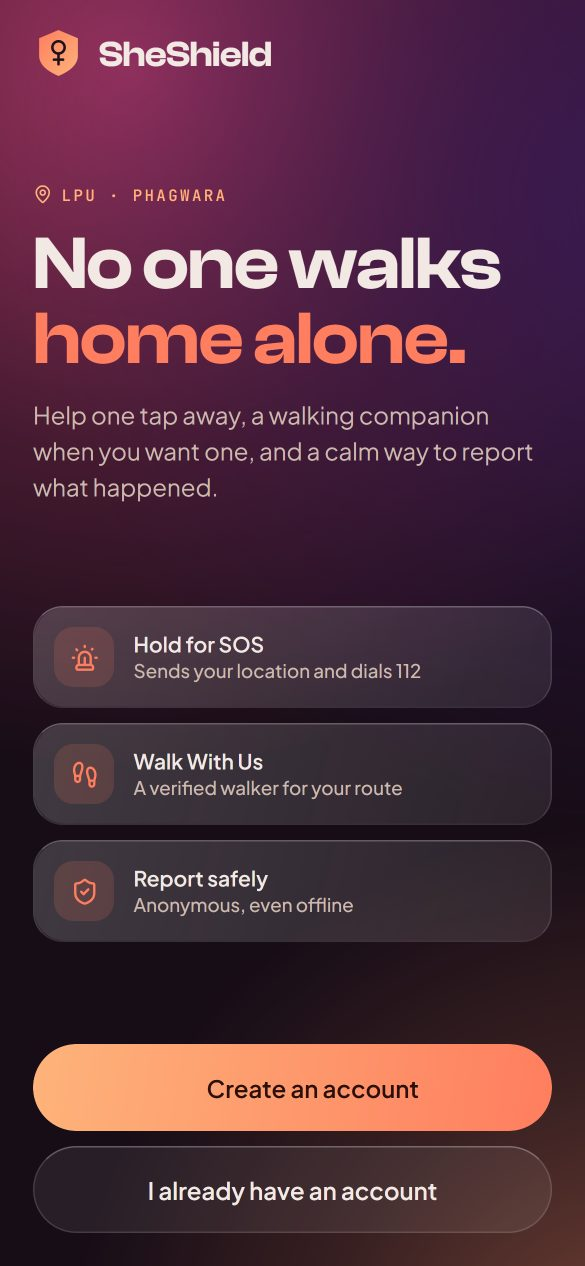
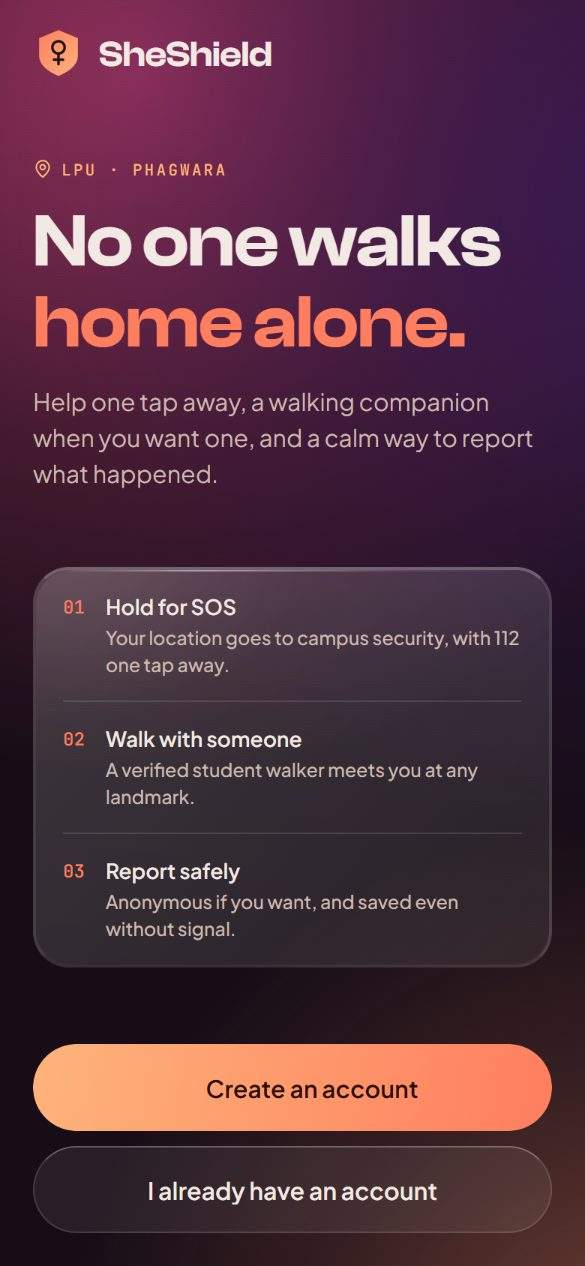
chore: final clean-up — licence at the root, current docs and screenshots
- Move the MIT licence to the repository root so it covers the whole
  project, as the README states, and link it.
- Remove Expo template leftovers from mobile/: the unused iOS icon folder,
  editor settings and AGENTS.md. Its advice now lives in the app README's
  development notes.
- README: live website and APK links, an Android build badge, the Mobile
  App section in the navigation, an updated roadmap, and Security rows for
  mobile token sign-in, environment-based config and hidden database errors.
- App README and install guide: current screenshots, the new features
  (report details, profile photo, volunteering), structure and endpoints.

diff --git a/mobile/README.md b/mobile/README.md
@@ -10,15 +10,15 @@ React Native · Expo SDK 58 · TypeScript · Expo Router · TanStack Query · Zu
 </div>
 
 <p align="center">
-  <img src="docs/screenshots/welcome.jpg" width="200" alt="Welcome screen">
-  <img src="docs/screenshots/home.jpg" width="200" alt="Home dashboard">
+  <img src="docs/screenshots/home.jpg" width="200" alt="Home">
   <img src="docs/screenshots/sos.jpg" width="200" alt="Hold-to-send SOS">
   <img src="docs/screenshots/sos-sent.jpg" width="200" alt="SOS sent with location">
+  <img src="docs/screenshots/map.jpg" width="200" alt="Campus safety map">
 </p>
 <p align="center">
-  <img src="docs/screenshots/map.jpg" width="200" alt="Campus safety map">
   <img src="docs/screenshots/walks.jpg" width="200" alt="Walk With Us">
   <img src="docs/screenshots/report.jpg" width="200" alt="Report an incident">
+  <img src="docs/screenshots/my-reports.jpg" width="200" alt="Report details">
   <img src="docs/screenshots/profile.jpg" width="200" alt="Profile and themes">
 </p>
 
@@ -27,12 +27,14 @@ React Native · Expo SDK 58 · TypeScript · Expo Router · TanStack Query · Zu
 | Feature | How it works |
 |---|---|
 | **Hold-to-send SOS** | Always one tap away in the middle of the tab bar. Hold for 1.6 s while a ring fills with rising haptic ticks, so a pocket tap never sends an alert. Uses the last known location instantly, then a fresh GPS fix within 8 s, sends it to the backend, and offers Call 112, call or text your emergency contact, or share a Google Maps link. If sending fails, every fallback still works. |
-| **Walk With Us** | Choose pickup, destination and time from campus landmarks. The server assigns a verified walker who is on duty. Walks update optimistically: cancel shows at once and rolls back if the server refuses. |
-| **Incident reports** | Type, severity, time, landmark or GPS location, up to 3 photos from the camera or gallery, and a fully anonymous option. **Works offline:** with no signal the report is saved on the phone and sent automatically when the connection returns. |
+| **Walk With Us** | A route card (From, To, swap) and one list of campus landmarks. The server assigns a verified walker who is on duty. Cancelling updates optimistically and rolls back if the server refuses. |
+| **Volunteer as a walker** | Role, gender, phone, ID, hours and areas, the same as the website. New walkers wait for admin verification; Walks shows your status. |
+| **Incident reports** | Type, severity, time, landmark or GPS location, up to 3 photos from the camera or gallery, and a fully anonymous option. **Works offline:** with no signal the report is saved on the phone and sent automatically when the connection returns. Tap a report to read it in full and mark your own pending ones resolved. |
 | **Campus map** | Esri satellite or street tiles with the official OpenStreetMap campus outline, landmarks and safe spaces. Runs Leaflet in a WebView, so the installed app needs no map API key. Tap a landmark to walk from it or report there. |
-| **Dashboard** | Live IST clock with next sunrise or sunset at LPU, your report numbers, active walk, latest reports and one-tap helplines. Pull to refresh everywhere. |
+| **Home** | Today's date and campus time, one focal panel (your walk, or a prompt to request one), quick actions, a summary strip, recent reports and helplines with Call buttons. Pull to refresh everywhere. |
+| **Frosted glass** | Each screen keeps its background in its own blur source, and every panel blurs it on Android 12+ (iOS blurs natively). The floating tab bar blurs the screen beneath it. |
 | **Never an empty screen** | Render's free server sleeps when idle and takes up to a minute to wake. Every screen loads the last data saved on the phone (or realistic sample data on a first run) if the server doesn't answer within 10 s, shows a "waking up" banner, and retries every 15 s until live data arrives. |
-| **Themes** | The website's three tweakcn themes (Sunset Horizon, Cosmic Night, Solar Dusk), saved between launches. |
+| **Profile** | Change your photo, set an emergency contact for SOS, and pick one of the website's three themes (Sunset Horizon, Cosmic Night, Solar Dusk). |
 | **Secure sign-in** | Email and password exchange for a random token stored in the Android Keystore / iOS Keychain (`expo-secure-store`). The server keeps only a SHA-256 hash and revokes it on sign-out. |
 
 ## Tech stack
@@ -42,7 +44,7 @@ React Native · Expo SDK 58 · TypeScript · Expo Router · TanStack Query · Zu
 - **TanStack Query**: server state, caching, pull-to-refresh, optimistic updates
 - **Zustand**: auth, theme, toast and offline-queue stores (theme persisted with AsyncStorage)
 - **Reanimated 4**: UI-thread animations (aurora, SOS ring, tab bar, press feedback, list entry)
-- **react-native-svg** (gradients, SOS progress ring), **expo-linear-gradient**, **expo-blur** (iOS tab bar)
+- **expo-blur** (real blur via `BlurTargetView` on Android 12+), **react-native-svg** (gradients, SOS ring), **expo-linear-gradient**, **masked-view**
 - **expo-location, expo-image-picker, expo-haptics, expo-secure-store, expo-clipboard**, NetInfo, WebView
 - **Lucide** icons, **Clash Display** + **Plus Jakarta Sans** + **JetBrains Mono** fonts
 - Backend: the SheShield PHP + MySQL API in the [repository root](../), deployed on Render and Vercel
@@ -58,13 +60,15 @@ src/
     (tabs)/index.tsx map.tsx walks.tsx profile.tsx
     sos.tsx                  full-screen emergency flow
     report.tsx reports.tsx   new report (modal) and history
-  components/                Glass, Button, Field, Aurora, HoldToSend, CampusMap, GlassTabBar…
+    volunteer.tsx            walker registration (modal)
+  components/                Glass, Scene, Button, Field, HoldToSend, CampusMap, GlassTabBar…
   lib/
     api.ts                   fetch wrapper: base URL, bearer token, timeouts, honest errors
     auth.ts                  token in SecureStore, Zustand store
     queries.ts               TanStack Query hooks and mutations
+    fallback.ts sample.ts    saved or sample data while the server wakes
     offline.ts               offline report queue + NetInfo auto-retry
-    theme.ts                 three themes, fonts, glass tokens
+    blur.ts theme.ts         blur sources, three themes, fonts, glass tokens
     campus.ts format.ts lpu-boundary.ts
 ```
 
@@ -79,8 +83,15 @@ Scan the QR code with a development build of the app, or press `w` for the web p
 
 ```bash
 npx tsc --noEmit   # type check
-npx expo lint      # lint (React Compiler rules included)
+npm run lint       # lint with the app's own config (React Compiler rules included)
 ```
+
+### Development notes
+
+- **Adding packages:** use `npx expo install <package>` rather than `npm install`. It picks the version that matches this Expo SDK.
+- **Check the versioned docs:** Expo changes APIs between SDKs, so check the docs for SDK 58 (https://docs.expo.dev/versions/v58.0.0/) before using an Expo API.
+- **Native folders:** `android/` and `ios/` are generated by `expo prebuild` and not committed. Native settings live in `app.json` and config plugins.
+- **Libraries with native code:** these need a new build, not just a reload.
 
 ## Install on your phone
 
@@ -88,7 +99,7 @@ Download the latest APK from **[Releases](https://github.com/Ankit-Basu/SheShiel
 
 ## Build an APK
 
-**GitHub Actions (no account needed):** [`.github/workflows/android-apk.yml`](../.github/workflows/android-apk.yml) in the repository root runs `expo prebuild`, builds a release APK with Gradle on GitHub's servers, and publishes it as a release. Start it from **Actions → Android APK → Run workflow**, or push a `v*` tag.
+**GitHub Actions (no account needed):** [`.github/workflows/android-apk.yml`](../.github/workflows/android-apk.yml) in the repository root runs `expo prebuild`, builds a release APK with Gradle on GitHub's servers, and publishes it as a release. It runs on its own when `mobile/` changes on `master`; start it by hand from **Actions → Android APK → Run workflow**, or push a `mobile-v*` tag.
 
 **EAS (Expo's build service):** for Play Store builds with managed signing.
 
@@ -111,7 +122,8 @@ npx eas-cli@latest build -p android --profile preview
 | `GET api/walks/mine.php` · `POST create_request.php`, `cancel_request.php` | Walks |
 | `POST api/emergency/alert.php` | SOS with location |
 | `GET api/safespaces/list.php` · `POST api/user/update_profile.php` | Map safe spaces · emergency contact |
+| `POST api/incidents/resolve.php` · `api/user/upload_photo.php` · `api/walks/register_walker.php` | Resolve a report · profile photo · volunteer as a walker |
 
 ## Credits
 
-Campus outline © OpenStreetMap contributors (ODbL). Imagery © Esri, Maxar. Clash Display from Fontshare (see `assets/fonts/LICENSE-FontShare.txt`).
+Campus outline © OpenStreetMap contributors (ODbL). Imagery © Esri, Maxar. Clash Display from Fontshare (see `assets/fonts/LICENSE-FontShare.txt`). Code under the MIT licence in the repository root.

diff --git a/README.md b/README.md
@@ -5,8 +5,12 @@
   <h3>No one walks home alone.</h3>
   <p><em>A campus safety platform for women at Lovely Professional University: one-tap SOS, walking companions, confidential reporting and a live satellite safety map.</em></p>
   <a href="https://github.com/Ankit-Basu/SheShield/actions/workflows/main.yml"><img src="https://github.com/Ankit-Basu/SheShield/actions/workflows/main.yml/badge.svg?branch=master" alt="CI/CD Pipeline"></a>
+  <a href="https://github.com/Ankit-Basu/SheShield/actions/workflows/android-apk.yml"><img src="https://github.com/Ankit-Basu/SheShield/actions/workflows/android-apk.yml/badge.svg" alt="Android APK"></a>
   <br>
+  <strong><a href="https://sheshield-ab.vercel.app">Live website</a> · <a href="https://github.com/Ankit-Basu/SheShield/releases">Android app (APK)</a></strong>
+  <br><br>
   <a href="#-key-features">Features</a> •
+  <a href="#-mobile-app">Mobile App</a> •
   <a href="#-screenshots">Screenshots</a> •
   <a href="#-tech-stack">Tech Stack</a> •
   <a href="#-cicd--devops-pipeline">CI/CD & DevOps</a> •
@@ -526,6 +530,7 @@ SheShield/
 ├── docs/                  # Setup, deployment and DevOps guides
 ├── infrastructure/        # Docker, Jenkins, Kubernetes, Helm, Terraform, Ansible, monitoring
 ├── mobile/                # React Native (Expo) Android app; see mobile/README.md
+├── render.yaml  vercel.json  # Free hosting: Render (PHP API) and Vercel (static pages)
 ├── screenshots/           # Images used in this README
 └── scripts/               # Rebuilds public/lib and the icon sprite
 ```
@@ -555,12 +560,14 @@ Slower devices lower the aurora frame rate and turn off blur automatically.
 | Layer | Implementation |
 |-------|---------------|
 | **Authentication** | Session-based auth with `password_hash()` / `password_verify()` |
+| **Mobile sign-in** | Random 64-character tokens, stored only as SHA-256 hashes and revoked on sign-out; kept in the Android Keystore on the phone |
 | **Authorization** | Dashboard pages require sign-in, and admin actions require an admin account |
 | **Ownership** | Reports can only be resolved by their owner or an admin |
 | **Database** | Prepared statements across the live endpoints |
 | **Privacy** | Anonymous reports are unlinked from accounts, and the shared map shows counts only |
-| **Email** | Sent only to the signed-in user, over TLS via PHPMailer |
-| **Config** | Credentials live in `.gitignore`-protected config files |
+| **Email** | Sent only to the signed-in user, over TLS (Brevo's API or SMTP via PHPMailer) |
+| **Config** | Credentials come from environment variables in hosted deploys, or `.gitignore`-protected files locally |
+| **Errors** | Database and driver errors are logged on the server; visitors only see a generic message |
 | **Container** | Aqua Trivy CVE scanning on every Docker build |
 | **Code Quality** | SonarQube static analysis with Quality Gate enforcement |
 
@@ -577,9 +584,11 @@ Slower devices lower the aurora frame rate and turn off blur automatically.
 - [x] Docker, Jenkins, GitHub Actions, SonarQube, Trivy and Nexus
 - [x] Kubernetes, Helm, Terraform, Ansible, Prometheus and Grafana
 - [x] Husky and Commitlint git hooks
+- [x] React Native Android app with offline reports and real frosted glass
+- [x] Free hosting on Render, Vercel and Aiven, kept awake by a scheduled job
+- [x] Token sign-in for the app, with saved data when the server is asleep
 - [ ] Automatic SOS alerts to emergency contacts
 - [ ] Verified building positions on the campus map
-- [ ] Native mobile app
 - [ ] AI-powered assistant
 - [ ] Multi-language support
 
@@ -591,7 +600,7 @@ Built by students passionate about making campuses safer for women through moder
 
 ## 📄 License
 
-This project is licensed under the **MIT License**.
+This project is licensed under the **MIT License**. See [LICENSE](LICENSE).
 
 ## 🤝 Contributing
 

diff --git a/mobile/docs/INSTALL.md b/mobile/docs/INSTALL.md
@@ -29,9 +29,10 @@ The app is an APK file attached to each GitHub Release. It isn't on the Play Sto
 1. **Home:** live campus clock, your numbers, quick actions.
 2. **SOS** (red button in the middle): hold for 2 seconds and watch the ring fill and the phone vibrate. Show the location confirmation and the call, text and share buttons. *Tip: this sends a real alert to your backend; that's fine for a demo account.*
 3. **Report:** pick a type, tap **Use my location**, add a photo, send. Then turn on airplane mode, send another and show it's saved. Turn airplane mode off and watch it send by itself.
-4. **Walks:** request a walk from Library to Main Gate, then cancel it.
+4. **Walks:** request a walk from Library to Main Gate, then cancel it. Scroll down to **Volunteer as a walker** to show the walker sign-up.
 5. **Map:** satellite view of LPU with the campus outline; tap a landmark.
-6. **You:** switch between the three themes.
+6. **You:** tap your photo to change it, then switch between the three themes.
+7. **History:** open a report to show its full details and **Mark as resolved**.
 
 ## Updating the app
 
